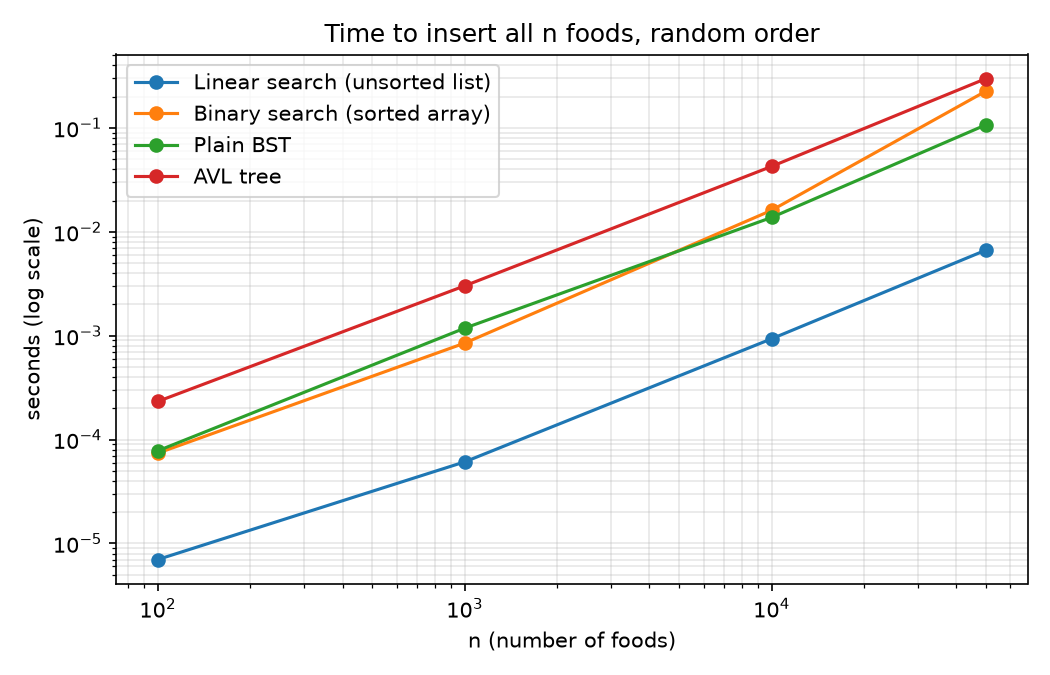
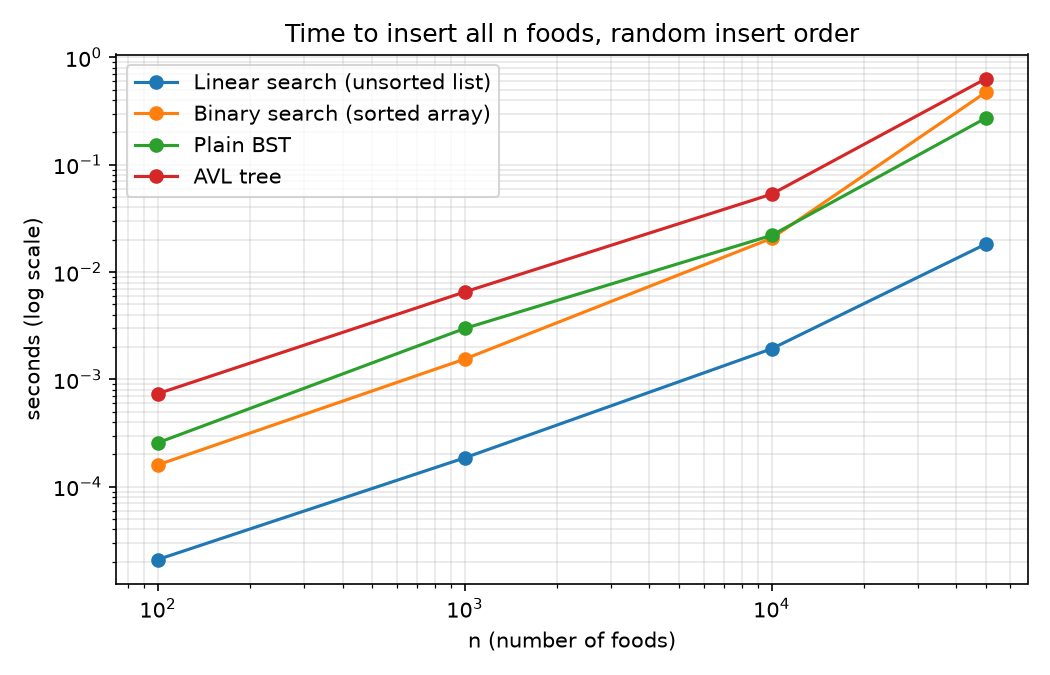
Fixed Benchmarks to be sorted by Price

diff --git a/mealplano/benchmarks/bench_lookup.py b/mealplano/benchmarks/bench_lookup.py
@@ -1,8 +1,18 @@
-"""Comparison A (PRD Section 9): finding a food by name.
+"""Comparison A (PRD Section 9): finding a food by its price key.
+
+Every structure is keyed the way the app's category trees are: by
+(price, name), so cheaper foods come first and the name only breaks ties.
+Every food in a run has a different price.
 
 Approaches: linear search on an unsorted list, binary search on a sorted array,
 plain BST, AVL tree. Each is measured at several sizes, with foods inserted in
-random order and in alphabetical order (the plain BST's worst case).
+random order and in ascending price order, cheapest first (the plain BST's
+worst case: every new food is the most expensive so far, so the tree becomes
+a chain going right).
+
+The two trees here skip the app's duplicate-NAME check (PriceAVLTree.insert,
+an O(n) walk), for the same reason UnsortedList skips duplicates: this
+measures the search structure itself, not FR-2.
 
 Measured per (approach, order, n):
   insert_s   time to insert all n foods (median of 5 builds)
@@ -21,13 +31,15 @@ import random
 
 from mealplano.benchmarks.common import (RESULTS, RUNS, SEED, line_chart, markdown_table,
                                          median_time, write_csv)
-from mealplano.dsa import BST, AVLTree
+from mealplano.dsa import BST, AVLTree, PriceAVLTree
 from mealplano.dsa.searching import binary_search, linear_search, sorted_insert
 
 FULL_SIZES = [100, 1_000, 10_000, 50_000]
 QUICK_SIZES = [100, 1_000]
-BST_SORTED_CAP = 10_000      # O(n^2) build: alphabetical input to a plain BST
+BST_SORTED_CAP = 10_000      # O(n^2) build: ascending prices into a plain BST
 LOOKUPS = 1_000
+ORDERS = ["random", "ascending"]
+ORDER_TITLES = {"random": "random insert order", "ascending": "ascending price order (cheapest first)"}
 
 
 # ---- the four approaches, each with build() and lookup() ----
@@ -71,24 +83,35 @@ class _TreeApproach:
         self.tree = self.tree_class()
 
     def insert(self, key, price):
-        self.tree.insert(key, price)
+        self.tree.insert(key[1], price)       # key = (price, name): the tree rebuilds it
 
     def lookup(self, key):
-        node = self.tree.search(key)
+        node = self.tree.search_key(key)
         return node.price if node is not None else None
 
     def height(self):
         return self.tree.height()
 
 
+class PriceBST(BST):
+    """Plain BST whose nodes are keyed by (price, name), like the app's trees."""
+    _new_node = staticmethod(PriceAVLTree._new_node)
+
+
+class PriceAVL(AVLTree):
+    """AVL tree keyed by (price, name): PriceAVLTree's ordering and balancing,
+    without its O(n) duplicate-name check."""
+    _new_node = staticmethod(PriceAVLTree._new_node)
+
+
 class PlainBST(_TreeApproach):
     label = "Plain BST"
-    tree_class = BST
+    tree_class = PriceBST
 
 
 class AVL(_TreeApproach):
     label = "AVL tree"
-    tree_class = AVLTree
+    tree_class = PriceAVL
 
 
 APPROACHES = [UnsortedList, SortedArray, PlainBST, AVL]
@@ -97,20 +120,27 @@ APPROACHES = [UnsortedList, SortedArray, PlainBST, AVL]
 # ---- test data ----
 
 def make_foods(n, order, rng):
-    """n unique (key, price) pairs, in random or alphabetical order."""
-    keys = [f"food{i:06d}" for i in range(n)]
-    foods = [(k, rng.randint(1, 10_000_000)) for k in keys]
-    if order == "random":
+    """n (key, price) pairs with key = (price, name), in random or ascending price order.
+
+    Prices are all different (P0.01 to P100,000.00, drawn without repeats).
+    The name is passed to the trees as the food's name; they lower-case it to
+    build the same (price, name) key.
+    """
+    prices = rng.sample(range(1, 10_000_001), n)
+    foods = [((price, f"food{i:06d}"), price) for i, price in enumerate(prices)]
+    if order == "ascending":
+        foods.sort()                          # cheapest first: the plain BST's worst case
+    else:
         rng.shuffle(foods)
-    return foods                              # keys were generated already sorted
+    return foods
 
 
 def make_lookups(foods, rng):
     """1,000 lookups: half present names, half absent, shuffled together."""
     present = [k for k, _ in rng.sample(foods, min(LOOKUPS // 2, len(foods)))]
-    # "food000123~" is never a real name, and it sorts right next to a real
-    # one, so absent searches go just as deep as present ones.
-    absent = [k + "~" for k, _ in rng.choices(foods, k=LOOKUPS - len(present))]
+    # (price, "food000123~") is never a real key, and it sorts right after a
+    # real one, so absent searches go just as deep as present ones.
+    absent = [(price, name + "~") for (price, name), _ in rng.choices(foods, k=LOOKUPS - len(present))]
     lookups = present + absent
     rng.shuffle(lookups)
     return lookups
@@ -123,11 +153,12 @@ def build(approach, foods):
     return s
 
 
+
 # ---- the benchmark ----
 
 def run(sizes, runs):
     rows = []
-    for order in ["random", "alphabetical"]:
+    for order in ORDERS:
         for n in sizes:
             rng = random.Random(SEED + n)     # same data for every approach at this n
             foods = make_foods(n, order, rng)
@@ -136,7 +167,7 @@ def run(sizes, runs):
             expected = [truth.get(k) for k in lookups]
 
             for approach in APPROACHES:
-                if approach is PlainBST and order == "alphabetical" and n > BST_SORTED_CAP:
+                if approach is PlainBST and order == "ascending" and n > BST_SORTED_CAP:
                     print(f"  skip  {approach.label:32} {order:12} n={n:>6}  (O(n^2) cap)")
                     continue
 
@@ -170,19 +201,19 @@ def charts(rows, sizes):
                 for a in APPROACHES}
 
     paths = []
-    for order in ["random", "alphabetical"]:
+    for order in ORDERS:
         paths.append(line_chart(f"lookup_search_{order}.png",
-                                f"Average search time, {order} insert order",
+                                f"Average search time, {ORDER_TITLES[order]}",
                                 "microseconds per search (log scale)",
                                 series(order, "search_us")))
         paths.append(line_chart(f"lookup_insert_{order}.png",
-                                f"Time to insert all n foods, {order} order",
+                                f"Time to insert all n foods, {ORDER_TITLES[order]}",
                                 "seconds (log scale)",
                                 series(order, "insert_s")))
 
     heights = {}
     for a in (PlainBST, AVL):
-        for order in ["random", "alphabetical"]:
+        for order in ORDERS:
             heights[f"{a.label}, {order}"] = [(r["n"], r["height"]) for r in rows
                                               if r["approach"] == a.label and r["order"] == order]
     heights["log2(n+1), the best possible"] = [(n, math.log2(n + 1)) for n in sizes]
@@ -196,7 +227,8 @@ def summary(rows):
     text = ["# Comparison A: lookup benchmark results", "",
             f"Seed {SEED}, median of {RUNS} runs, {LOOKUPS} lookups per round "
             "(half present, half absent).",
-            f"Plain BST with alphabetical input is capped at n = {BST_SORTED_CAP:,} "
+            "Every structure is keyed by (price, name), like the app's trees; prices are unique.",
+            f"Plain BST with ascending-price input is capped at n = {BST_SORTED_CAP:,} "
             "because building it is O(n^2).", "",
             markdown_table(rows, cols), ""]
     path = RESULTS / "lookup_summary.md"

diff --git a/mealplano/dsa/bst.py b/mealplano/dsa/bst.py
@@ -17,9 +17,13 @@ class BST:
     def __len__(self):
         return self.size
 
+    # Builds each new node. A subclass can give nodes a different ordering
+    # key (PriceAVLTree uses (price, name)) without rewriting insert().
+    _new_node = staticmethod(FoodNode)
+
     def insert(self, display_name, price_centavos):
-        """Insert a food. Return False if the name is already in this tree."""
-        new = FoodNode(display_name, price_centavos)
+        """Insert a food. Return False if its key is already in this tree."""
+        new = self._new_node(display_name, price_centavos)
         if self.root is None:
             self.root = new
             self.size = 1
@@ -45,6 +49,19 @@ class BST:
     def search(self, name):
         """Return the node for this name, or None if it is not in the tree."""
         key = make_key(name)
+        current = self.root
+        while current is not None:
+            if key == current.key:
+                return current
+            current = current.left if key < current.key else current.right
+        return None
+
+    def search_key(self, key):
+        """Return the node with this exact ordering key, or None. O(height).
+
+        Same loop as search(), but the caller gives the key itself, e.g.
+        (8050, "adobo") for a tree ordered by (price, name).
+        """
         current = self.root
         while current is not None:
             if key == current.key:

diff --git a/mealplano/tests/test_price_tree.py b/mealplano/tests/test_price_tree.py
@@ -41,6 +41,14 @@ class PriceOrderTests(unittest.TestCase):
         self.assertEqual(self.tree.search_exact(7500, "tinola").display_name, "Tinola")
         self.assertIsNone(self.tree.search_exact(7600, "Tinola"))         # right name, wrong price
 
+    def test_search_key_agrees_with_search_exact(self):
+        """search_key is what the lookup benchmark uses on its price-keyed trees."""
+        for node in self.tree.inorder():
+            self.assertIs(self.tree.search_key(node.key),
+                          self.tree.search_exact(node.price, node.display_name))
+        self.assertIsNone(self.tree.search_key((7500, "tinola~")))       # absent, sorts next to Tinola
+        self.assertIsNone(PriceAVLTree().search_key((100, "x")))
+
     def test_duplicate_name_rejected_even_at_another_price(self):
         self.assertFalse(self.tree.insert("adobo", 9999))
         self.assertEqual(len(self.tree), 6)

diff --git a/mealplano/dsa/price_tree.py b/mealplano/dsa/price_tree.py
@@ -65,13 +65,7 @@ class PriceAVLTree(AVLTree):
 
     def search_exact(self, price_centavos, name):
         """Find a food by its full ordering key (price, name). O(log n)."""
-        key = (price_centavos, make_key(name))
-        current = self.root
-        while current is not None:
-            if key == current.key:
-                return current
-            current = current.left if key < current.key else current.right
-        return None
+        return self.search_key((price_centavos, make_key(name)))
 
     def delete(self, name):
         """Remove a food by name. Return (display_name, price) removed, or None."""

diff --git a/mealplano/dsa/avl.py b/mealplano/dsa/avl.py
@@ -7,7 +7,7 @@ about 1.44 * log2(n), so recursion depth stays small and is safe here.
 """
 
 from .bst import BST
-from .node import FoodNode, make_key
+from .node import make_key
 
 
 def _height(node):
@@ -73,7 +73,7 @@ class AVLTree(BST):
 
     def insert(self, display_name, price_centavos):
         """Insert a food and rebalance. Return False if the name is already here."""
-        new = FoodNode(display_name, price_centavos)
+        new = self._new_node(display_name, price_centavos)
         self._inserted = False
         self.root = self._insert(self.root, new)
         if self._inserted:

diff --git a/mealplano/benchmarks/results/lookup_summary.md b/mealplano/benchmarks/results/lookup_summary.md
@@ -1,38 +1,39 @@
 # Comparison A: lookup benchmark results
 
 Seed 42, median of 5 runs, 1000 lookups per round (half present, half absent).
-Plain BST with alphabetical input is capped at n = 10,000 because building it is O(n^2).
+Every structure is keyed by (price, name), like the app's trees; prices are unique.
+Plain BST with ascending-price input is capped at n = 10,000 because building it is O(n^2).
 
 | approach | order | n | insert_s | search_us | height |
 |---|---|---|---|---|---|
-| Linear search (unsorted list) | random | 100 | 7e-06 | 1.917 |  |
-| Binary search (sorted array) | random | 100 | 7.4e-05 | 0.647 |  |
-| Plain BST | random | 100 | 7.8e-05 | 0.503 | 14 |
-| AVL tree | random | 100 | 0.000233 | 0.453 | 8 |
-| Linear search (unsorted list) | random | 1000 | 6.1e-05 | 15.144 |  |
-| Binary search (sorted array) | random | 1000 | 0.000849 | 0.86 |  |
-| Plain BST | random | 1000 | 0.001182 | 0.834 | 26 |
-| AVL tree | random | 1000 | 0.003022 | 0.544 | 12 |
-| Linear search (unsorted list) | random | 10000 | 0.000934 | 144.784 |  |
-| Binary search (sorted array) | random | 10000 | 0.01612 | 1.16 |  |
-| Plain BST | random | 10000 | 0.013767 | 0.866 | 29 |
-| AVL tree | random | 10000 | 0.042657 | 0.749 | 16 |
-| Linear search (unsorted list) | random | 50000 | 0.00668 | 843.685 |  |
-| Binary search (sorted array) | random | 50000 | 0.226956 | 2.029 |  |
-| Plain BST | random | 50000 | 0.10746 | 1.297 | 42 |
-| AVL tree | random | 50000 | 0.299286 | 1.174 | 19 |
-| Linear search (unsorted list) | alphabetical | 100 | 7e-06 | 1.737 |  |
-| Binary search (sorted array) | alphabetical | 100 | 4.6e-05 | 0.54 |  |
-| Plain BST | alphabetical | 100 | 0.000277 | 2.018 | 100 |
-| AVL tree | alphabetical | 100 | 0.000216 | 0.421 | 7 |
-| Linear search (unsorted list) | alphabetical | 1000 | 6.1e-05 | 14.411 |  |
-| Binary search (sorted array) | alphabetical | 1000 | 0.000829 | 0.897 |  |
-| Plain BST | alphabetical | 1000 | 0.027669 | 18.845 | 1000 |
-| AVL tree | alphabetical | 1000 | 0.003141 | 0.539 | 10 |
-| Linear search (unsorted list) | alphabetical | 10000 | 0.000674 | 138.388 |  |
-| Binary search (sorted array) | alphabetical | 10000 | 0.011017 | 1.152 |  |
-| Plain BST | alphabetical | 10000 | 2.634237 | 210.166 | 10000 |
-| AVL tree | alphabetical | 10000 | 0.044482 | 0.799 | 14 |
-| Linear search (unsorted list) | alphabetical | 50000 | 0.00444 | 911.684 |  |
-| Binary search (sorted array) | alphabetical | 50000 | 0.066503 | 2.731 |  |
-| AVL tree | alphabetical | 50000 | 0.267108 | 0.995 | 16 |
+| Linear search (unsorted list) | random | 100 | 2.1e-05 | 7.363 |  |
+| Binary search (sorted array) | random | 100 | 0.00016 | 1.412 |  |
+| Plain BST | random | 100 | 0.000257 | 1.05 | 14 |
+| AVL tree | random | 100 | 0.000737 | 1.479 | 8 |
+| Linear search (unsorted list) | random | 1000 | 0.000186 | 34.465 |  |
+| Binary search (sorted array) | random | 1000 | 0.001549 | 1.624 |  |
+| Plain BST | random | 1000 | 0.002986 | 1.752 | 24 |
+| AVL tree | random | 1000 | 0.006534 | 1.155 | 12 |
+| Linear search (unsorted list) | random | 10000 | 0.00193 | 334.045 |  |
+| Binary search (sorted array) | random | 10000 | 0.020648 | 1.491 |  |
+| Plain BST | random | 10000 | 0.021986 | 1.285 | 36 |
+| AVL tree | random | 10000 | 0.053248 | 0.901 | 16 |
+| Linear search (unsorted list) | random | 50000 | 0.018316 | 5833.475 |  |
+| Binary search (sorted array) | random | 50000 | 0.475525 | 3.316 |  |
+| Plain BST | random | 50000 | 0.273284 | 3.472 | 38 |
+| AVL tree | random | 50000 | 0.635977 | 3.872 | 19 |
+| Linear search (unsorted list) | ascending | 100 | 1.4e-05 | 4.287 |  |
+| Binary search (sorted array) | ascending | 100 | 0.000147 | 1.095 |  |
+| Plain BST | ascending | 100 | 0.000571 | 4.429 | 100 |
+| AVL tree | ascending | 100 | 0.000417 | 0.738 | 7 |
+| Linear search (unsorted list) | ascending | 1000 | 0.000121 | 33.203 |  |
+| Binary search (sorted array) | ascending | 1000 | 0.001369 | 1.717 |  |
+| Plain BST | ascending | 1000 | 0.053555 | 40.405 | 1000 |
+| AVL tree | ascending | 1000 | 0.005968 | 1.036 | 10 |
+| Linear search (unsorted list) | ascending | 10000 | 0.001707 | 421.738 |  |
+| Binary search (sorted array) | ascending | 10000 | 0.026185 | 4.045 |  |
+| Plain BST | ascending | 10000 | 6.625356 | 491.315 | 10000 |
+| AVL tree | ascending | 10000 | 0.112356 | 2.523 | 14 |
+| Linear search (unsorted list) | ascending | 50000 | 0.018002 | 4383.052 |  |
+| Binary search (sorted array) | ascending | 50000 | 0.156496 | 3.198 |  |
+| AVL tree | ascending | 50000 | 0.540795 | 2.638 | 16 |

diff --git a/README.md b/README.md
@@ -26,8 +26,10 @@ node is one planned day with at most one food per category.
 | Open a day, plan or remove a meal | O(log n) | AVL search, insert, delete (n = planned days) |
 | Week or month total | O(log n + k) | Range query: an in-order walk that skips subtrees outside the dates (k = days in range) |
 
-The name-ordered `BST` and `AVLTree` classes are still in the `dsa` package: the lookup benchmark
-(report Section 5, Comparison A) compares search structures by name lookup using them.
+The lookup benchmark (report Section 5, Comparison A) keys every structure the same way, by
+(price, name), and uses ascending prices (cheapest first) as the plain BST's worst case. The
+name-ordered `BST` and `AVLTree` classes are still in the `dsa` package; the benchmark's trees are
+small subclasses of them with the price key.
 
 ## Quick start
 
@@ -160,7 +162,7 @@ Run `python -m mealplano.seed_demo` and start the server before the defense. Eac
 
     *"A week or month total is a range query: walk the tree in order, but skip any subtree that is entirely before the first date or after the last one. That is O(log n + k)."*
 11. **Restart the server**, log in again: everything is still there (FR-20).
-12. **Benchmarks:** show `lookup_search_alphabetical.png` and `sort_sorted.png`. *"Alphabetical input makes the plain BST 263× slower than AVL; sorted input makes Quick Sort 290× slower than Merge Sort."*
+12. **Benchmarks:** show `lookup_search_ascending.png` and `sort_sorted.png`. *"Adding foods cheapest first makes the plain BST 195× slower than AVL at 10,000 foods; sorted input makes Quick Sort 290× slower than Merge Sort."*
 
 Likely panel questions, with the short answer:
 
